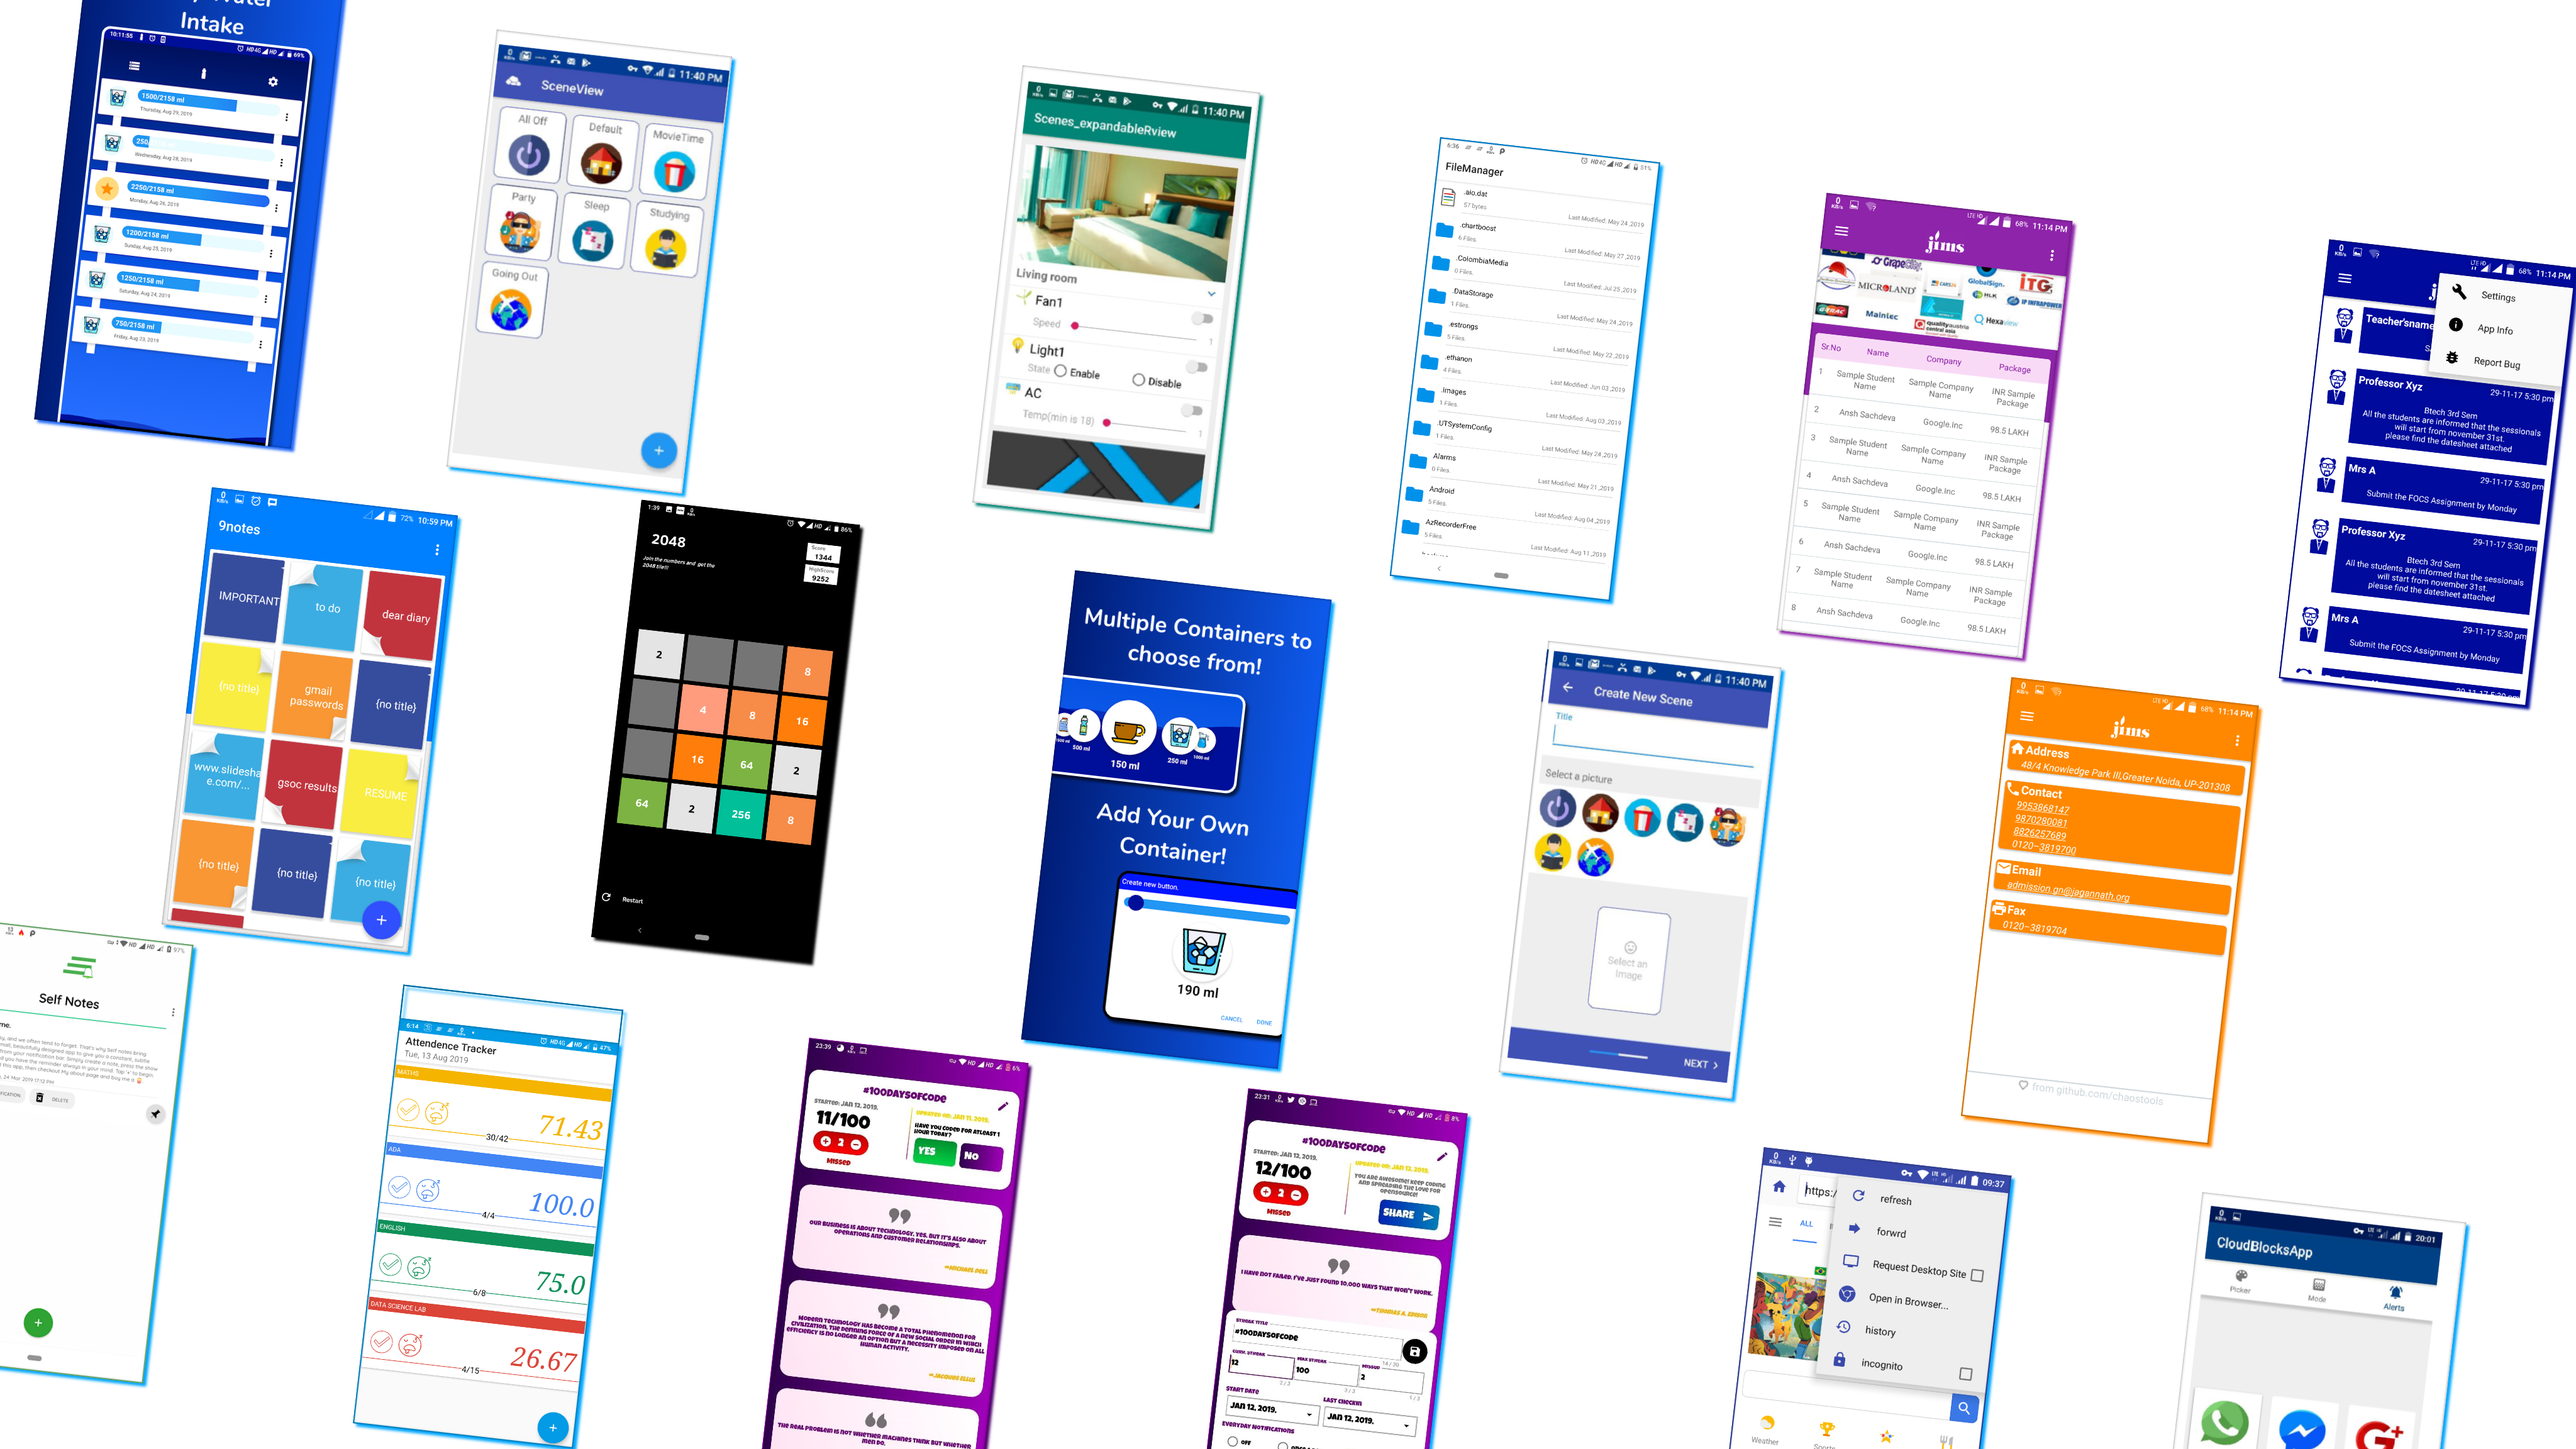
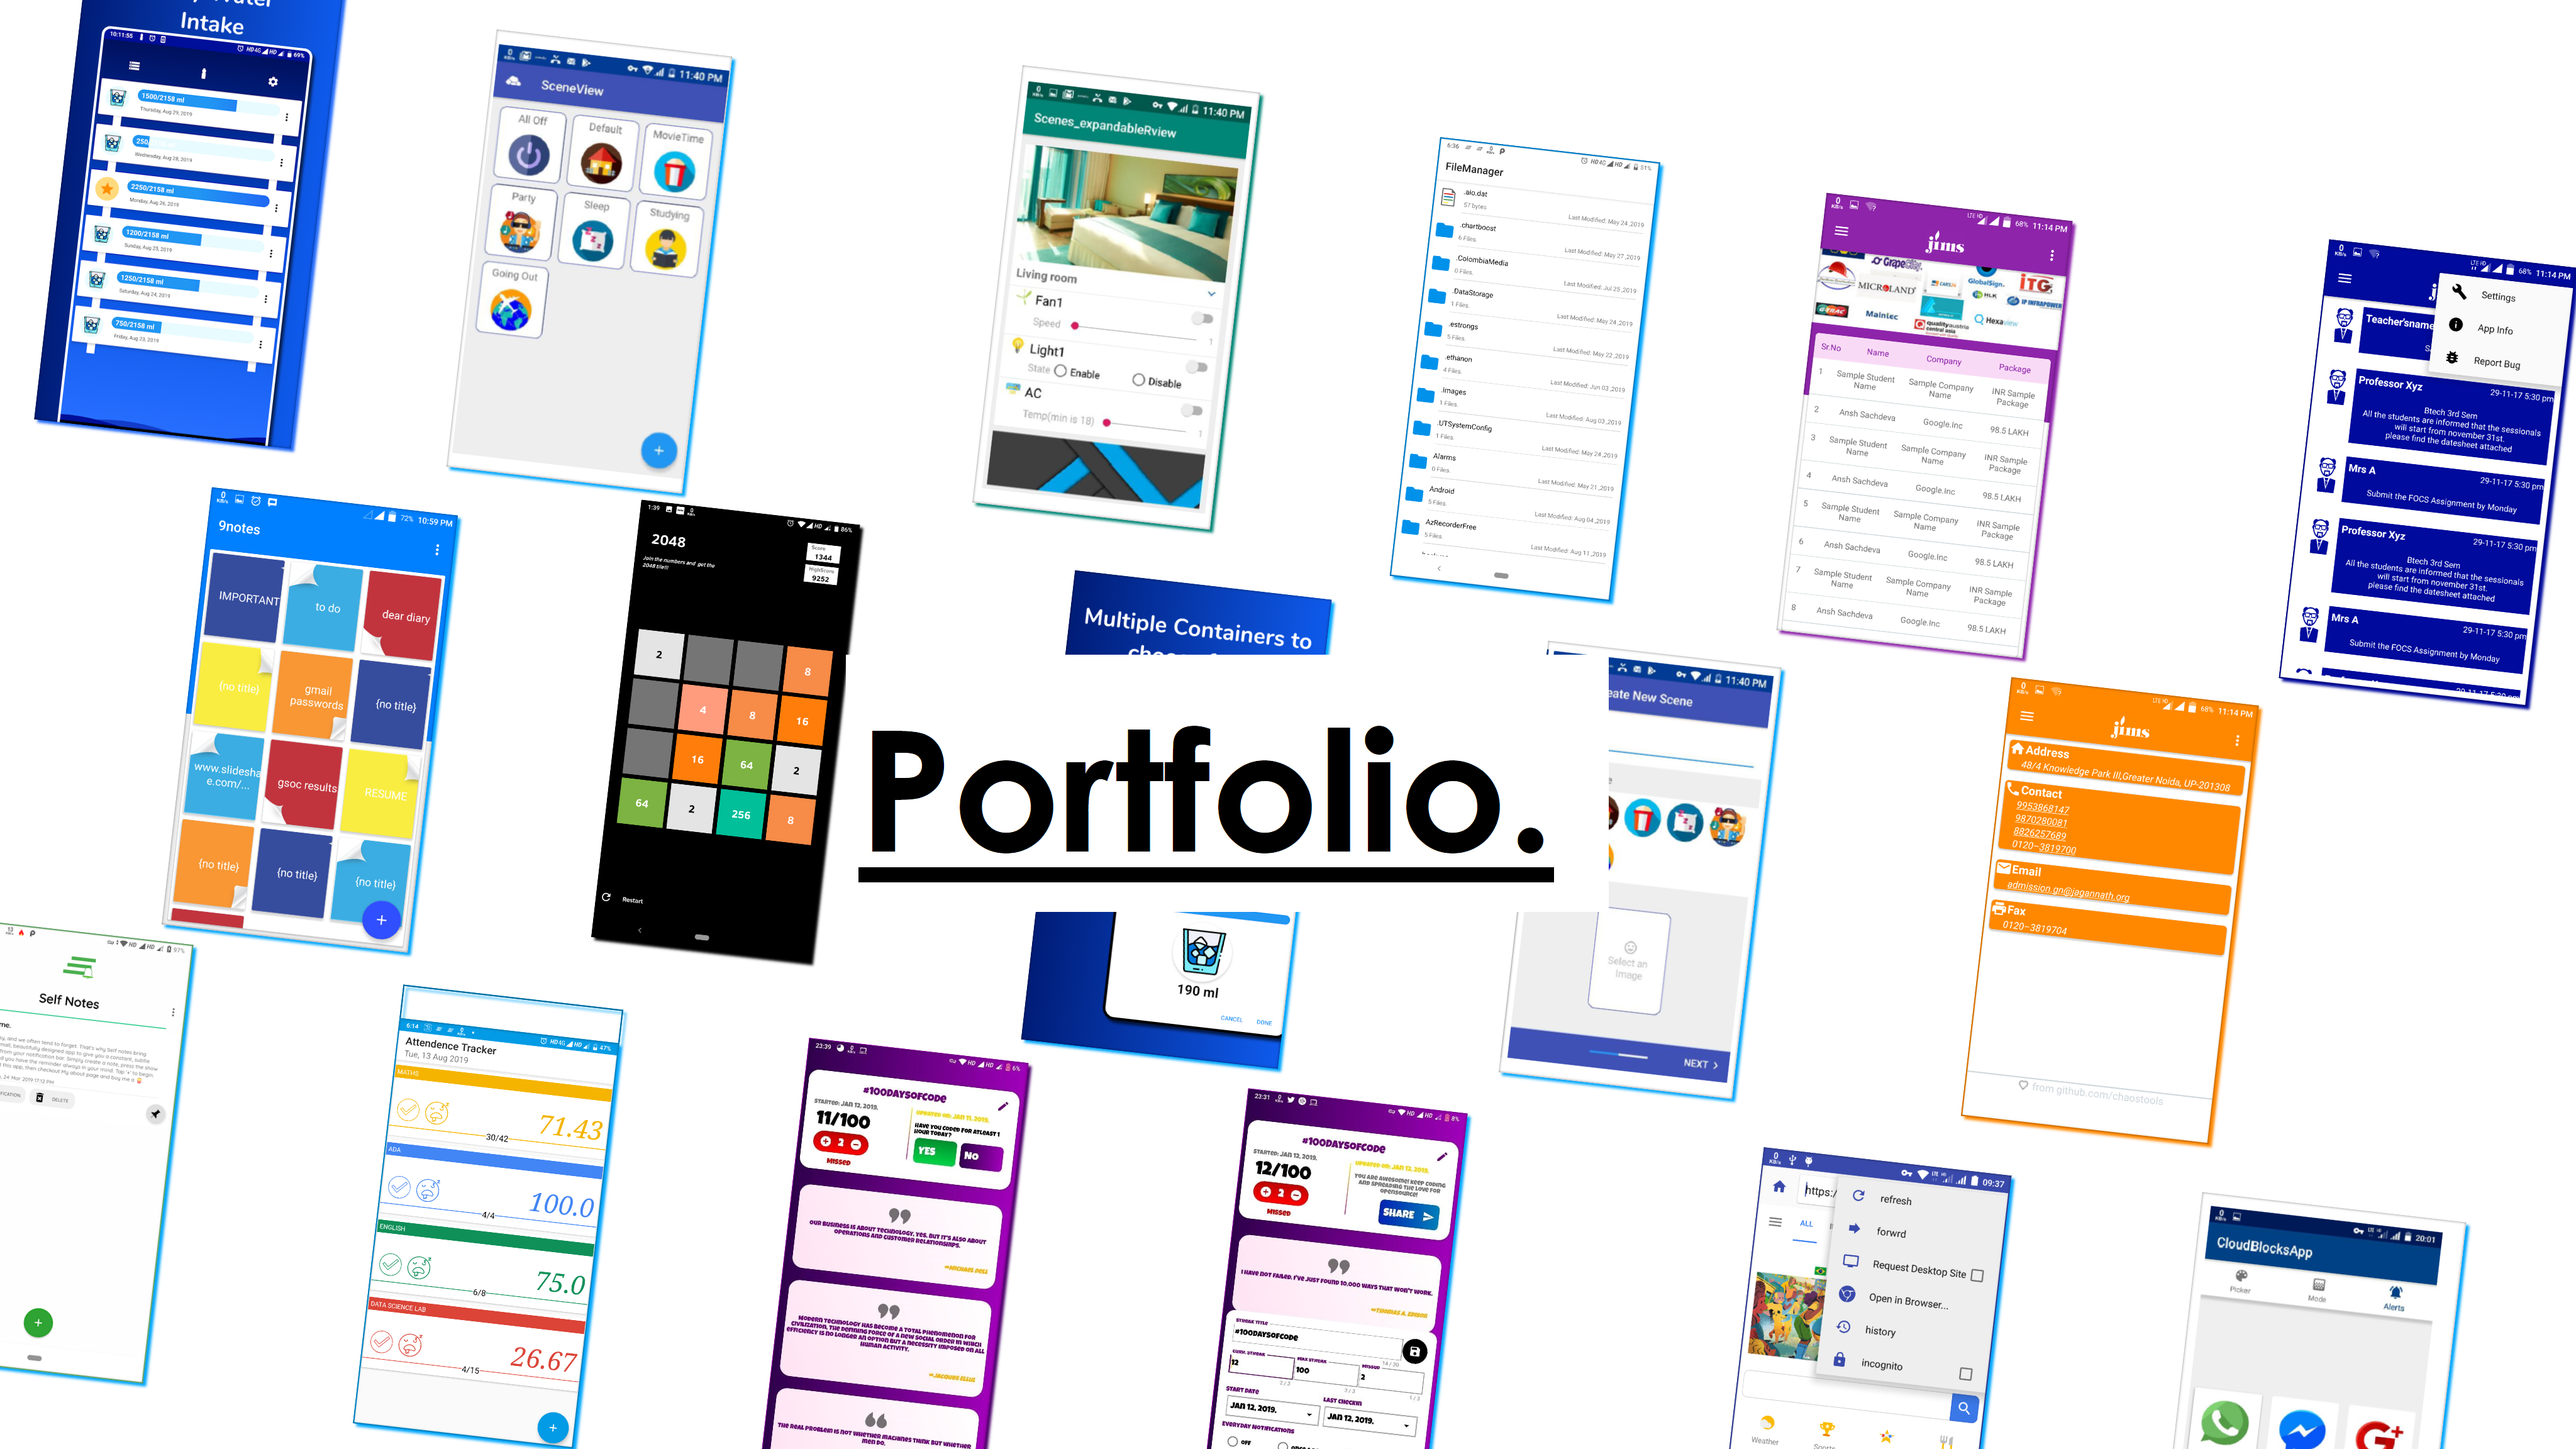
added pages

Changed region(s): [[0.3125, 0.4375, 0.625, 0.6562], [0.5938, 0.4375, 0.625, 0.5]]

diff --git a/docs/tab_projects/project_summary.md b/docs/tab_projects/project_summary.md
@@ -1,7 +1,178 @@
-# Portfolio
-   - summary_page : 1)Big graphic havig my designs 2) having a small table or something with my project name, duration and small description( in detail for company projects) + details link  
-   
-   - project 1 : big icon image, title, description, screenshots, other derails, dwnload link(basically a readme of any project)  
-   - project 2 : big icon image, title, description, screenshots, other derails, dwnload link(basically a readme of any project)  
-   - project 3 : big icon image, title, description, screenshots, other derails, dwnload link(basically a readme of any project)
-   ...
+![main](/img/pf/main.png)  
+
+#Portfolio
+
+## 1. Company projects:
+
+I have worked as an android developer intern with Coding Blocks, a coding institute, 
+Claro India, an IOT based Agro-tech company and Cloud blocks, a Home Automation company.
+
+### <u>Claro India.</u>
+For claro India, I built 2 internal apps  RMCRS-bluetooth and RMCRS-sms, which automated
+their usual workflow by automatically sending data to the server without manual 
+interaction.
+
+<p align="center"> 
+<img src="/img/pf/claro_1.png" height="400" width="200">
+<img src="/img/pf/claro_2.png" height="400px" width="200px">
+</p>  
+
+<p align="center"> 
+<img src="/img/pf/claro_3.png" height="400" width="200">
+<img src="/img/pf/claro_4.png" height="400px" width="200px">
+<img src="/img/pf/claro_5.png" height="400px" width="200px">
+</p>  
+
+### <u>CloudBlocks.in</u>
+For Cloudblocks India, I worked with their main software product, their android app as 
+an Android Developer Intern. I fixed bugs in the code and added new features. The live app
+can be found 
+[here](https://play.google.com/store/apps/details?id=com.cloudblocks.android.user&hl=en_IN) :
+![](/img/pf/cb_1.png)  
+
+<p align="center"> 
+<img src="/img/pf/cb_2.png" height="400px" width="200px">
+<img src="/img/pf/cb_3.png" height="400px" width="200px">
+</p>  
+
+---  
+
+
+
+## 2. Personal projects(Android):
+
+### <u>Water Manager : Water Intake Tracker and Reminder</u>
+An open source app built with Latest Jetpack components,Water manager is a full fledged 
+Intake tracker app that can remind users to drink water, log their data and provide 
+meaningful analysis.  
+ 
+Links: [Playstore](https://play.google.com/store/apps/developer?id=Curioustools&hl=en_US) | 
+[Github](https://github.com/root-ansh/WaterManager) 
+
+<p align="center"> 
+<img src="/img/pf/water_m1.png" height="400px" width="200px">
+<img src="/img/pf/water_m2.png" height="400px" width="200px">
+<img src="/img/pf/water_m3.png" height="400px" width="200px">
+</p>  
+
+### <u>Self Notes</u>
+A UI focussed note taking app that can give pin-able notifications for each note. 
+Uses latest Architecture Components and MVVM pattern.  
+
+Links : [Playstore](https://play.google.com/store/apps/details?id=in.curioustools.selfnotes&hl=en_US)
+
+<p align="center"> 
+<img src="/img/pf/self_n_1.png" >
+<img src="/img/pf/self_n_2.png" height="400px" width="200px">
+</p>  
+
+
+
+### <u>B-Browser</u>
+A single screen mobile browser. made while learning about android WebView.  
+
+Links:[Github](https://github.com/root-ansh/B-Browser)
+<p align="center"> 
+<img src="/img/pf/br_1.png" height="400px" width="200px">
+<img src="/img/pf/br_2.png" height="400px" width="200px">
+<img src="/img/pf/br_3.png" height="400px" width="200px">
+</p>  
+
+
+### <u>#100DaysOfCode</u>
+A utility reminder app to remind the user to code for 1 hr each day.  
+Links:[Github](https://github.com/root-ansh/100DaysOfCode )
+<p align="center"> 
+<img src="/img/pf/days100_1.jpeg" height="400px" width="200px">
+<img src="/img/pf/days100_2.jpeg" height="400px" width="200px">
+<img src="/img/pf/days100_3.jpeg" height="400px" width="200px">
+</p>  
+
+
+### <u>MyJIMS</u>
+One of my first full fledged app from 2017-18. Its an app for showing my college details.
+It Also has a <u>chat-based</u> announcement portal which uses **Firebase Auth** and 
+**Firebase Realtime Database** as backend server. 
+
+<p align="center"> 
+<img src="/img/pf/jims.png" height="400px" width="200px">
+<img src="/img/pf/jims1.png" height="400px" width="200px">
+<img src="/img/pf/jims2.png" height="400px" width="200px">
+</p>  
+
+<p align="center"> 
+<img src="/img/pf/jims3.png" height="400px" width="200px">
+<img src="/img/pf/jims4.png" height="400px" width="200px">
+<img src="/img/pf/jims6.png" height="400px" width="200px">
+</p>  
+
+### <u>9Notes</u>
+The first version of my note taking app.
+
+<p align="center"> 
+<img src="/img/pf/notes1_1.png" height="400px" width="200px">
+<img src="/img/pf/notes1_2.png" height="400px" width="200px">
+<img src="/img/pf/notes1_3.png" height="400px" width="200px">
+</p>  
+
+### <u>2048</u>
+A puzzle game.
+
+<p align="center"> 
+<img src="/img/pf/game_2048_1.png" height="400px" width="200px">
+<img src="/img/pf/game_2048_2.png" height="400px" width="200px">
+<img src="/img/pf/game_2048_3.png" height="400px" width="200px">
+</p>  
+
+### <u>Attendance tracker</u>
+A simple way to track your subject wise Attendance manually.
+
+<p align="center"> 
+<img src="/img/pf/att_1.png" height="400px" width="200px">
+<img src="/img/pf/att_2.png" height="400px" width="200px">
+<img src="/img/pf/att_3.png" height="400px" width="200px">
+</p>  
+
+### <u>File Manager</u>
+Full fledged file manager using storage access framework (SAF Api).
+
+<p align="center"> 
+<img src="/img/pf/file_1.png" height="400px" width="200px">
+<img src="/img/pf/file_2.png" height="400px" width="200px">
+<img src="/img/pf/file_3.png" height="400px" width="200px">
+</p>  
+
+
+## 2. Personal projects(Non Android):
+
+
+### <u><i>"Talk to Super jarvis"</i></u>
+Super Jarvis a trivia on Marvel Avengers made for Google assistant. It does not need any 
+installation, it simply works when a person says "OK Google, Talk To Super Jarvis".I was 
+awarded with a branded T-shirt from Google, for building this.  
+
+Links : [Actions Store](https://assistant.google.com/services/a/uid/0000009cb9d07d45?hl=en-US)
+<p align="center"> 
+<img src="/img/pf/jarvis1.jpeg" height="400px" width="200px">
+<img src="/img/pf/jarvis2.jpeg" height="400px" width="200px">
+</p>  
+
+
+### <u>Venturebeat article analysis</u>
+The following project aims to display how the use of scrapy, matplotlib and NLTK library 
+can be put together to get some meaningful analysis. Here we crawl around 600+ articles 
+of december 2018 from a tech-news site Venturebeat.com , put them in a large text file, 
+and then read that file using NLTK library to build a hashmap of unique words, filtering 
+out the non usefult stopwords.  
+
+Links : [Actions Store](https://github.com/root-ansh/VenturebeatArticleAnalyser)
+  
+
+
+
+
+
+
+
+
+

diff --git a/docs/tab_blogs/android/enums_and_intDefs.md b/docs/tab_blogs/android/enums_and_intDefs.md
@@ -8,7 +8,7 @@ But they are usually considered a bad practise in android because Enums often re
 `@IntDef` is a way of replacing an integer enum where there's a parameter that should only
  accept explicit int values.We can use IntDef to ensure that the value is one of the expected values
  by adding this annotation. For eg:  
-```java
+``` java
 
 public class example {
    @IntDef( {Type.TYPE_MUSIC,Type.TYPE_PHOTO,Type.TYPE_TEXT})

diff --git a/docs/tab_edu/edu_details.md b/docs/tab_edu/edu_details.md
@@ -76,9 +76,6 @@
 		
 	</div>
 	
-   
-	
-	
 </div>
 
 
